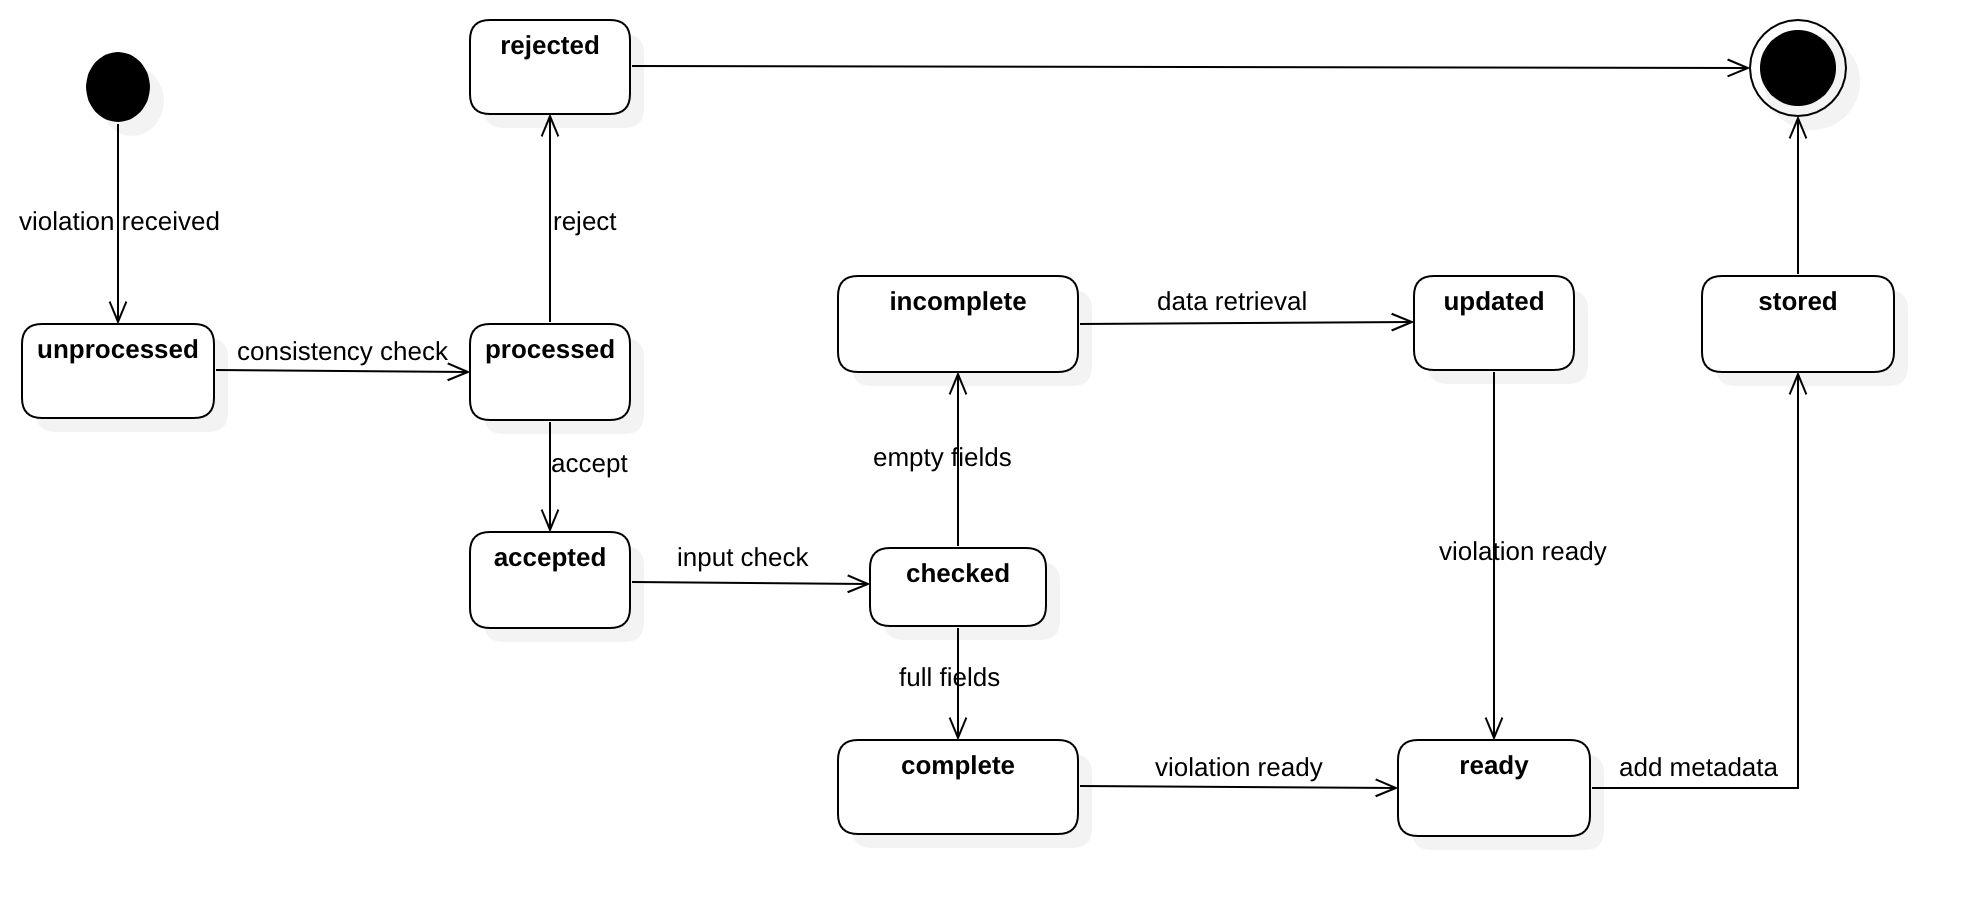
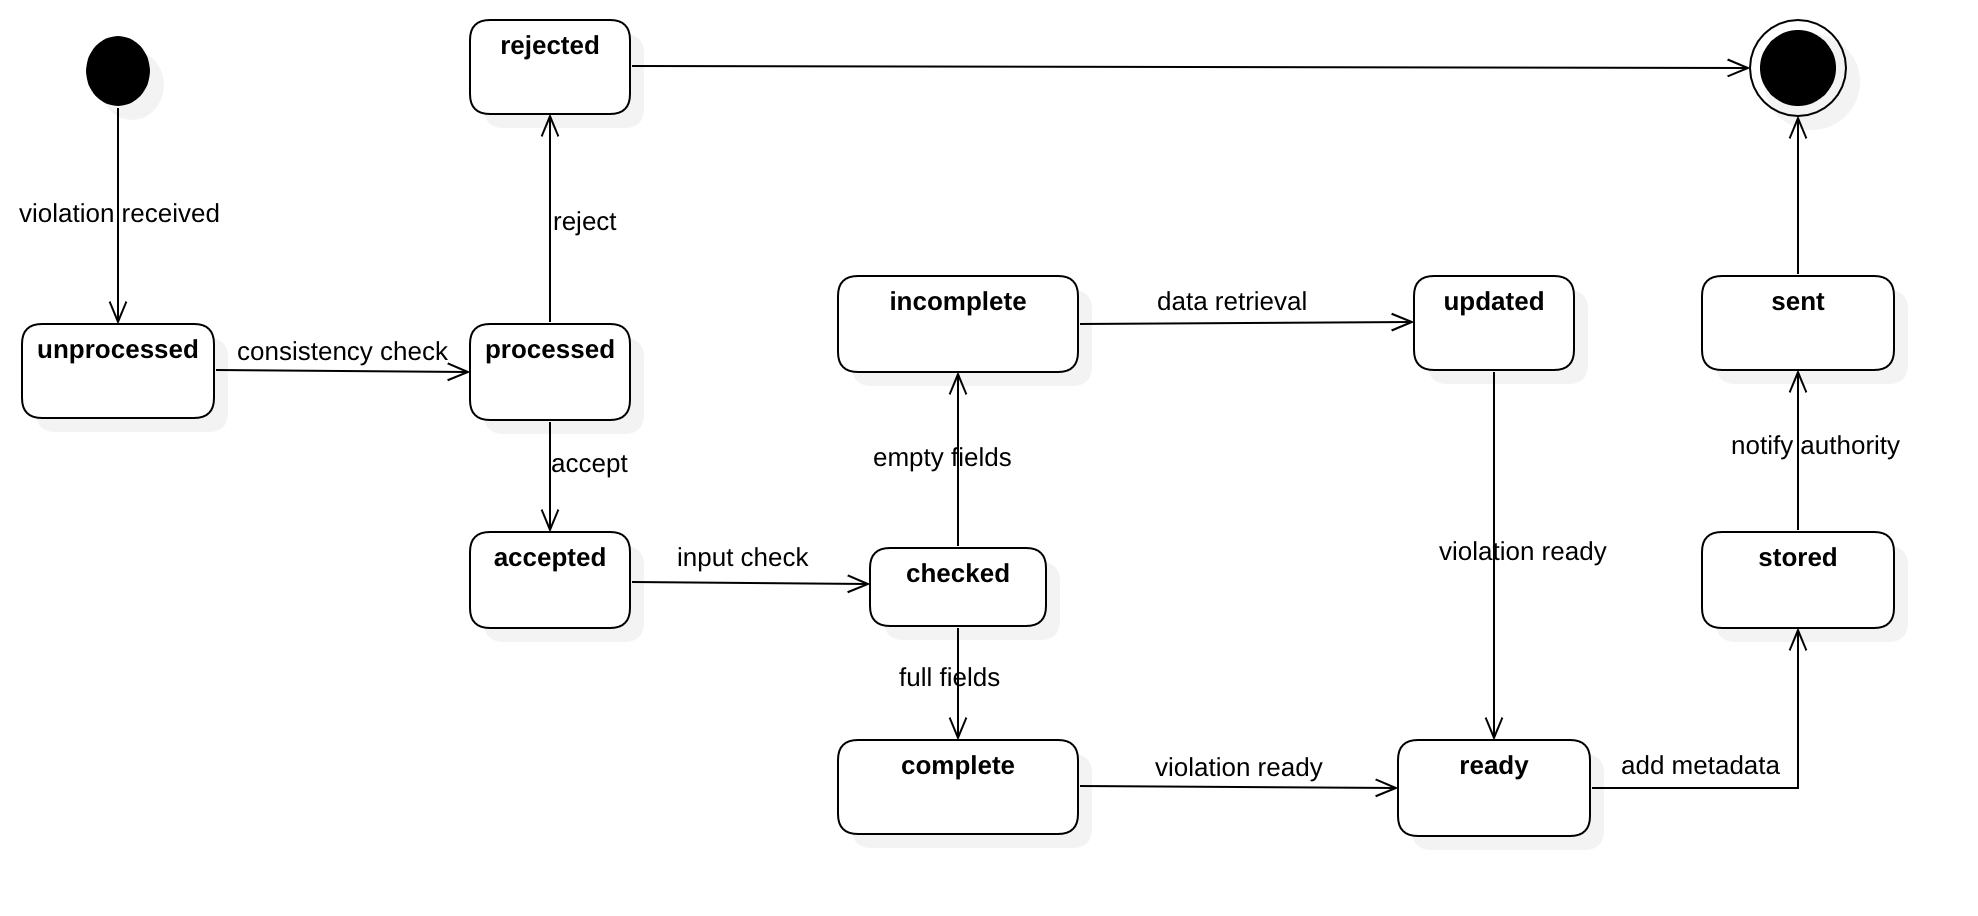
beautify text and fixes

diff --git a/rasd/Files/rasd_OVERALLDESCRIPTION.tex b/rasd/Files/rasd_OVERALLDESCRIPTION.tex
@@ -90,12 +90,13 @@
 	\FloatBarrier
 	
 	\subsubsection[State Diagrams]{\hyperlink{toc}{State Diagrams}}
-	Considering now the main functionalities of the system, it is important to highlight the main events that take its objects to move from one state to another. State diagrams are used to describe the most critical aspects of the objects previously described in the UML diagram (\autoref{fig:classDiagram}).
+	Considering now the main functionalities of the system, it is important to highlight the events that make its objects move from one state to another. State diagrams are used to describe the most critical aspects of the objects previously described in the UML diagram (\autoref{fig:classDiagram}).
 	
 	\paragraph{Notification}
-		First we have to deal with the notification of a parking violation. It is important to remember that each infraction will be refused by the system i.i.f inconsistency is found; for example multiple images representing different types of vehicles.
-		The diagram (\autoref{fig:notifyState}) starts with the received violation by a user that reaches the \textit{unprocessed} state. First the system needs to check the consistency of the data received in order to accept or reject the violation. If the message is \textit{rejected} the notification diagram ends, otherwise the \textit{accepted} violation needs some more checks before it can be stored in the system. Second a check is used to understand if the infraction lacks of some important fields that the application should be able to retrieve thanks to the functionalities provided by the external interfaces. Then, if the message is \textit{complete} it is ready to be enriched with other metadata (the name of the street retrieved by the GPS position), instead it is completed with missing information and then the \textit{ready} state is reached too. In the end the information about the parking violation is stored in the system and the notification diagram ends.
+		Beginning with the notification of a parking violation it is important to remember that each infraction will be refused by the system i.i.f inconsistency is found; for example multiple images representing different types of vehicles.
+		The diagram (\autoref{fig:notifyState}) starts when a violation is received in the \textit{unprocessed} state. First the system needs to check the consistency of the data received in order to accept or reject the violation. If the message is \textit{rejected} the notification diagram ends, otherwise the \textit{accepted} violation needs some more checks before it can be stored in the system. Second another check is used to understand if the infraction lacks of some important fields to be stored that however the application should be able to retrieve easily thanks to the functionalities provided by the external interfaces. Then, if the message is \textit{complete} it is ready to be enriched with other metadata (the name of the street retrieved by the GPS position), otherwise it is completed with missing information and then the \textit{ready} state is reached too. Lastly the information about the parking violation is \textit{stored}in the system, \textit{sent}to the authority and the notification diagram ends.
 		
+		\vspace{0.3cm}
 		\begin{figure}[h]
 			\centering
 			\includegraphics[scale=0.18]{/diagrams/notifyStateDiagram.png}
@@ -103,9 +104,10 @@
 		\end{figure}
 	
 	\paragraph{Request}
-		Statistics retrieval is another critical functionality that can be described with a state diagram in order to define how the information asked is provided with different levels of visibility depending on the role of the customer.
-		The diagram (\autoref{fig:requestState}) represents both different kinds of requests a customer can do, in fact it is used to highlight the different visibility of the answered information rather than this aspect. Whenever a query is received, the system has first to retrieve the data that is required thanks to the filters provided by the customer. After the information is found in the \textit{processed} state, the application needs to recognize the user in order to provide him the data with the correct level of visibility devoted to him. If the request comes from a user its data is filtered and then, once ready in \textit{user data} state, sent back to the user; symmetrically happens for the authority who will receive the least aggregate information possible. 
+		Statistics retrieval is another critical functionality that needs a state diagram in order to define how the information asked is provided with different levels of visibility depending on the role of the customer.
+		The diagram (\autoref{fig:requestState}) represents both different kinds of requests a customer can do, in fact it is used to highlight the different visibility of the answered information rather than the difference between the requests. Whenever a query is received, the system has first to retrieve the data that is required thanks to the filters provided by the customer. After the information is found in the \textit{processed} state, the application needs to recognize the user in order to provide him the data with the level of visibility devoted to him. If the request comes from a user its data is filtered and once ready (\textit{user data} state), sent back to the user; symmetrically happens for the authority who will receive the least aggregate information possible. 
 		
+		\vspace{0.3cm}
 		\begin{figure}[h]
 			\centering
 			\includegraphics[scale=0.18]{/diagrams/requestStateDiagram.png}
@@ -113,16 +115,16 @@
 		\end{figure}
 	
 	\paragraph{Safety}
-	In the end the last state diagram is used to highlight how the system is able to determine the safety of a street and update its state whenever new violations occur or new accidents data is provided by the municipality. 
-	The diagram (\autoref{fig:safetyState}) shows how the safety of a street evolves in the time. The system is able to cross its own data with the one provided by the municipality to establish the safety of an area that will be evaluated thanks to some tresholds. At the beginning an area is considered \textit{safe} (and highlighted with the GREEN color) because no parking violation are stored and no cross can be performed. Once parking violations start to occur the application is able to keep track of their frequency and, thanks to the accidents information, will determine if the area has to be considered less safe than the one before or not. In this way once exceeded the safe treshold the area will be considered \textit{half safe} (highlighted in YELLOW) and the same for the last state that represents an \textit{unsafe} area (highlighted in RED). Obviously the system has also to consider when an area enhances its safety; this will happen whenever one of the tresholds is not reached anymore. 
-	
-	\begin{figure}[h]
-		\centering
-		\includegraphics[scale=0.23]{/diagrams/safetyStateDiagram.png}
-		\caption{\label{fig:safetyState}Area safety state diagram}
-	\end{figure}   
+		The last state diagram is used to highlight how the system is able to determine the safety of a street and update its state whenever new violations occur or new accidents data is provided by the municipality. 
+		The diagram (\autoref{fig:safetyState}) shows how the safety of a street evolves in the time. The system is able to cross its own data with the one provided by the municipality to establish the safety of an area that will be evaluated thanks to some tresholds. At the beginning an area is considered \textit{safe} (and highlighted with the GREEN color) because no parking violation are stored and no cross can be performed. Once parking violations start to occur the application is able to keep track of their frequency and, thanks to the accidents information, will determine if the area has to be considered less safe than before or not. In this way once exceeded the safe treshold it will be considered \textit{half safe} (highlighted in YELLOW) and the same for the last state that represents an \textit{unsafe} area (highlighted in RED). Obviously the system has also to consider when an area enhances its safety; this will happen whenever one of the tresholds is not reached anymore. 
+		
+		\vspace{0.3cm}
+		\begin{figure}[h]
+			\centering
+			\includegraphics[scale=0.23]{/diagrams/safetyStateDiagram.png}
+			\caption{\label{fig:safetyState}Area safety state diagram}
+		\end{figure}   
 
-	
 \subsection[Product Functions]{\hyperlink{toc}{Product Functions}}
 
 \subsection[User Characteristics]{\hyperlink{toc}{User Characteristics}}
